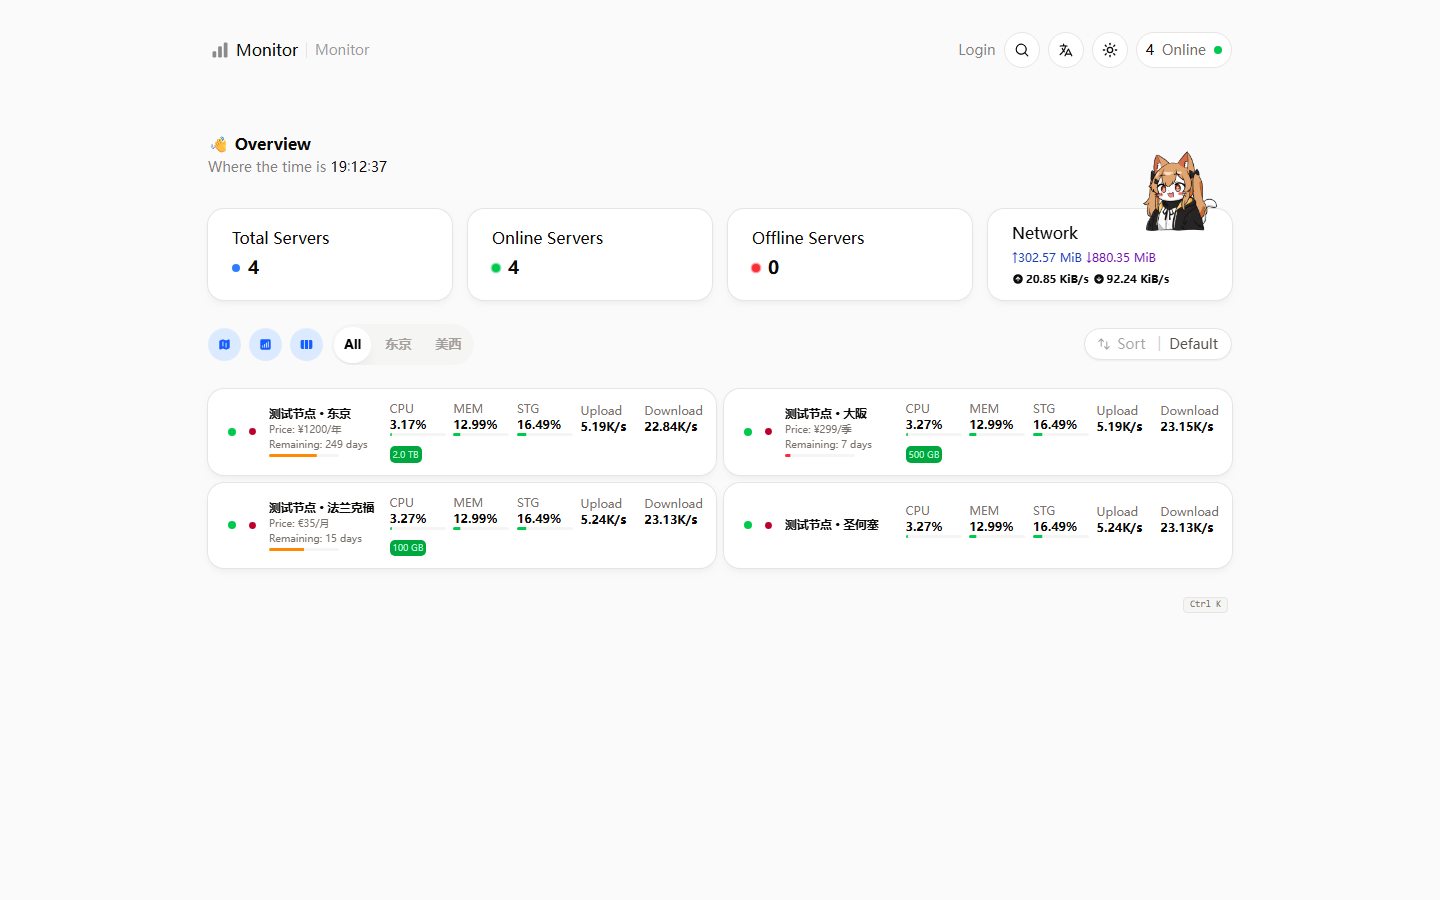
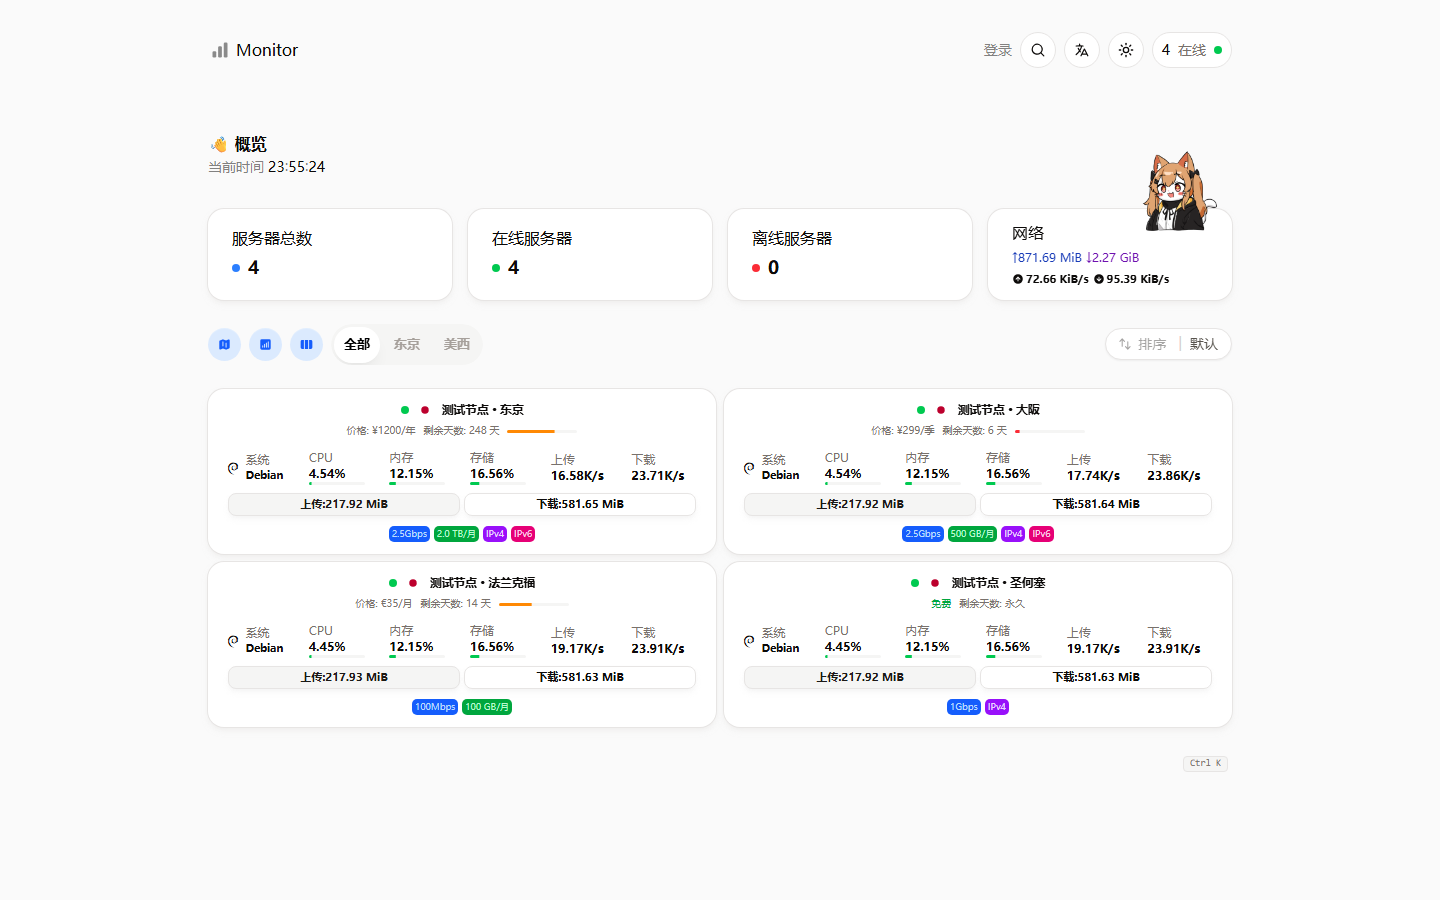
chore(1.0.9): 更新主题缩略图为当前形态；README 补反代部署提醒
- preview.png 换成当前形态的实拍（1440x900，含国旗、四色芯片、竖版卡片与上下行总量框）
- README 新增「部署提醒（反向代理）」：反代/WAF 不要把 /vendor/ 整目录拦掉，
  否则 /vendor/flag-icons.min.css 404 会让国旗元素 0x0 隐形（本次踩坑点）

背景：komari.im 上的 Nginx 反探测规则原本拦了 ^/vendor/，导致国旗消失；
已把该规则收窄为只拦 PHP 依赖探测（vendor/autoload.php、composer、bin/ 等），服务端已修复。

diff --git a/README.md b/README.md
@@ -113,6 +113,12 @@
 
 标签行的位置随视图走，和上游（源站）一致：**卡片视图**在卡片底部居中（上游宽屏会左对齐，这里显式居中）；**紧凑列表**在右侧指标网格的下方一行、靠左 —— 因为右列被拉伸到整行宽度，视觉上正好落在左侧「剩余天数」那一行的右边。
 
+## 部署提醒（反向代理）
+
+主题会加载 `/vendor/flag-icons.min.css`（国旗样式）与 `/flags/**/*.svg`（国旗图片）。
+**反代 / WAF 规则不要把 `/vendor/` 整目录拦掉**，否则国旗元素会渲染成 0×0（看不见），
+而页面本身不会报错——这类问题在浏览器里只表现为「国旗没了」。
+
 ## 开发
 
 ```bash
